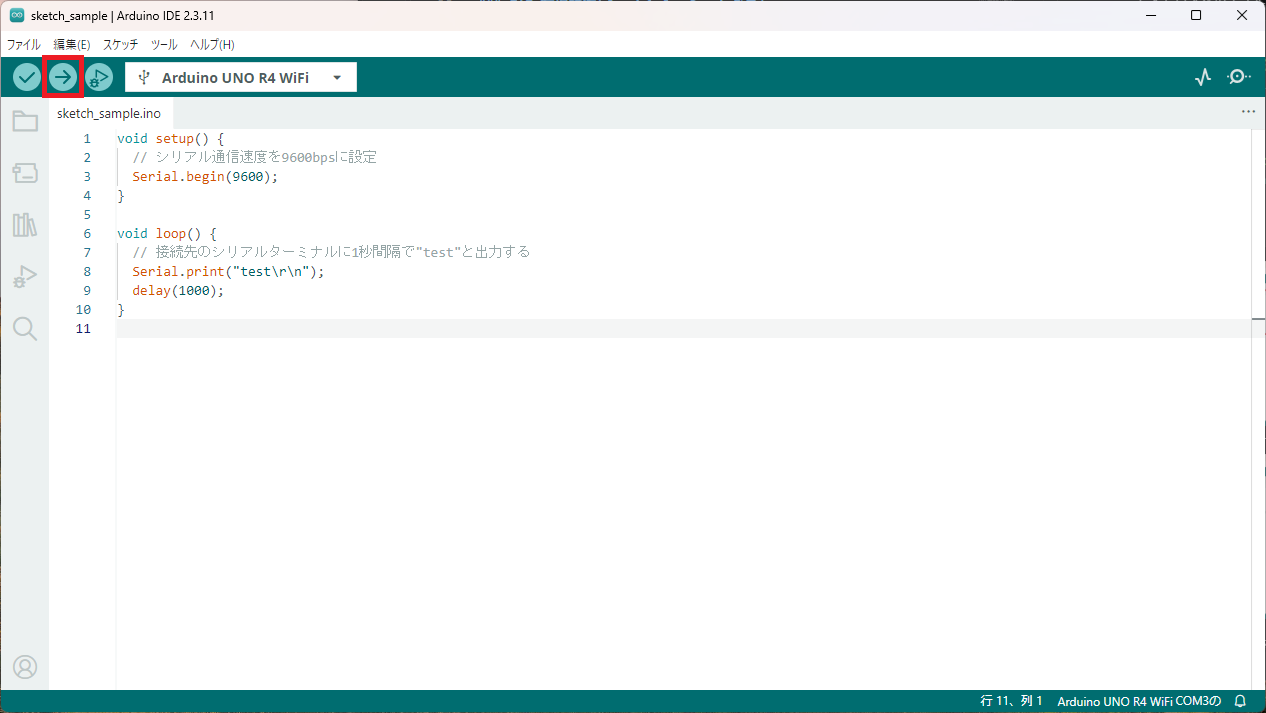
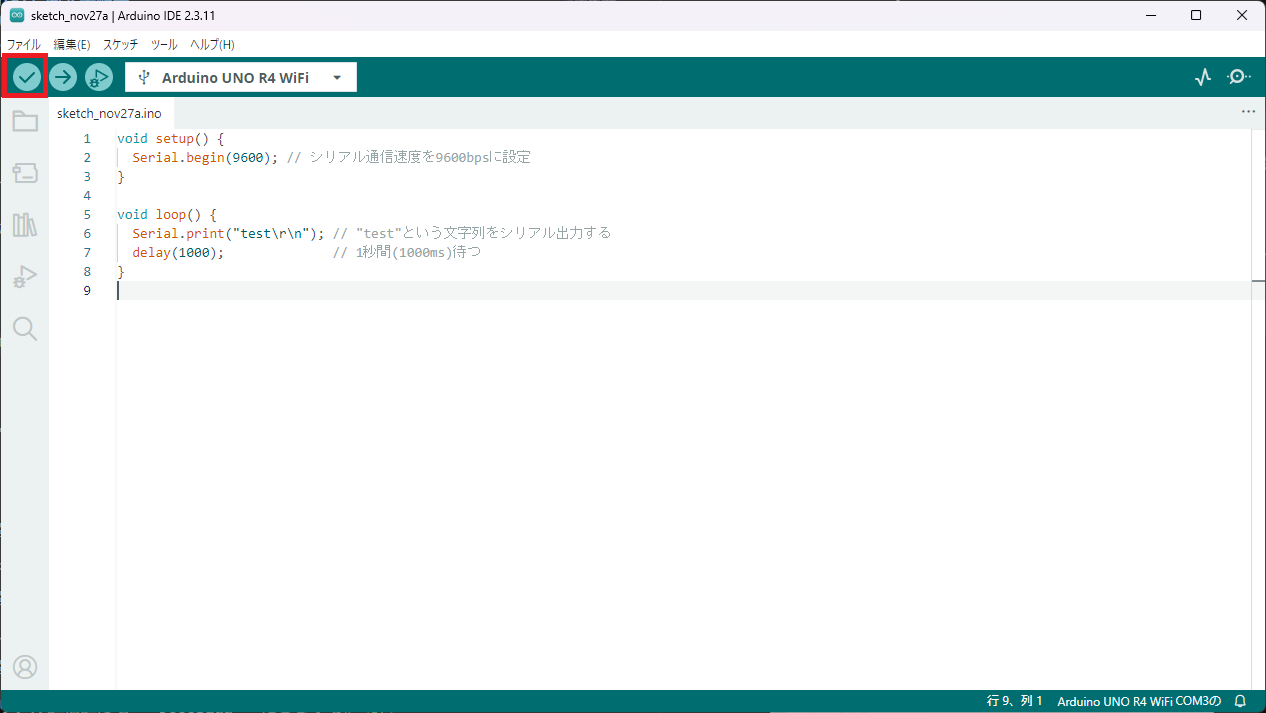
#4369_mod_手順書2章の記述を修正

diff --git a/boards/uno_r4_wifi/Arduino_UNO_R4_WiFi編.md b/boards/uno_r4_wifi/Arduino_UNO_R4_WiFi編.md
@@ -48,20 +48,24 @@
 ### 1.3 インストールできたことの確認
 
 ## 2. シリアルターミナルの使い方
+この章では、シリアルモニタの使い方について記述する。
 
 ### 2.1 使用するツールと接続方法
+この節では、シリアルモニタとして使用するツール、接続方法を記述する。
 
 | ツール | 接続方法 |
 |---|---|
-| Arduino IDE | 接続なし。ツール上のシリアルモニタを使用。 |
+| Arduino IDE | 接続なし(ツール上のシリアルモニタを使用) |
 
 ### 2.2 通信設定(ポート、ボーレートなど)
+この節では、シリアルモニタの通信設定を記述する。
 
 | ポート | ボーレート |
 |---|---|
 | ボードを接続したCOM | ボードに設定したシリアル通信速度 |
 
 ### 2.3 動作確認
+この節では、シリアルモニタの動作確認手順を記述する。
 
 1. 開発 PC の USB ポートに Arduino UNO R4 WiFi を接続する。<br>
 
@@ -80,17 +84,20 @@
     ```
     <img src="./images/u1_serial_terminal_01.png" width=60%><br>
 
-1. 「書き込み」 を押下する。<br>
+1. 「検証」 を押下する。<br>
     <img src="./images/u1_serial_terminal_02.png" width=60%><br>
 
-1. シリアルモニタのアイコンを押下する。<br>
+1. 「書き込み」 を押下する。<br>
     <img src="./images/u1_serial_terminal_03.png" width=60%><br>
 
-1. シリアルモニタのシリアル通信速度を **9600baud** に変更する。<br>
+1. シリアルモニタのアイコンを押下する。<br>
     <img src="./images/u1_serial_terminal_04.png" width=60%><br>
 
-1. シリアルモニタの出力を確認する。<br>
+1. シリアルモニタのシリアル通信速度を **9600baud** に変更する。<br>
     <img src="./images/u1_serial_terminal_05.png" width=60%><br>
+
+1. シリアルモニタの出力を確認する。<br>
+    <img src="./images/u1_serial_terminal_06.png" width=60%><br>
     > 確認: 1秒ごとに **test** と出力されればシリアルモニタの動作が期待通りであることが確認できる。<br>
 
 ## 3. プロジェクト作成
